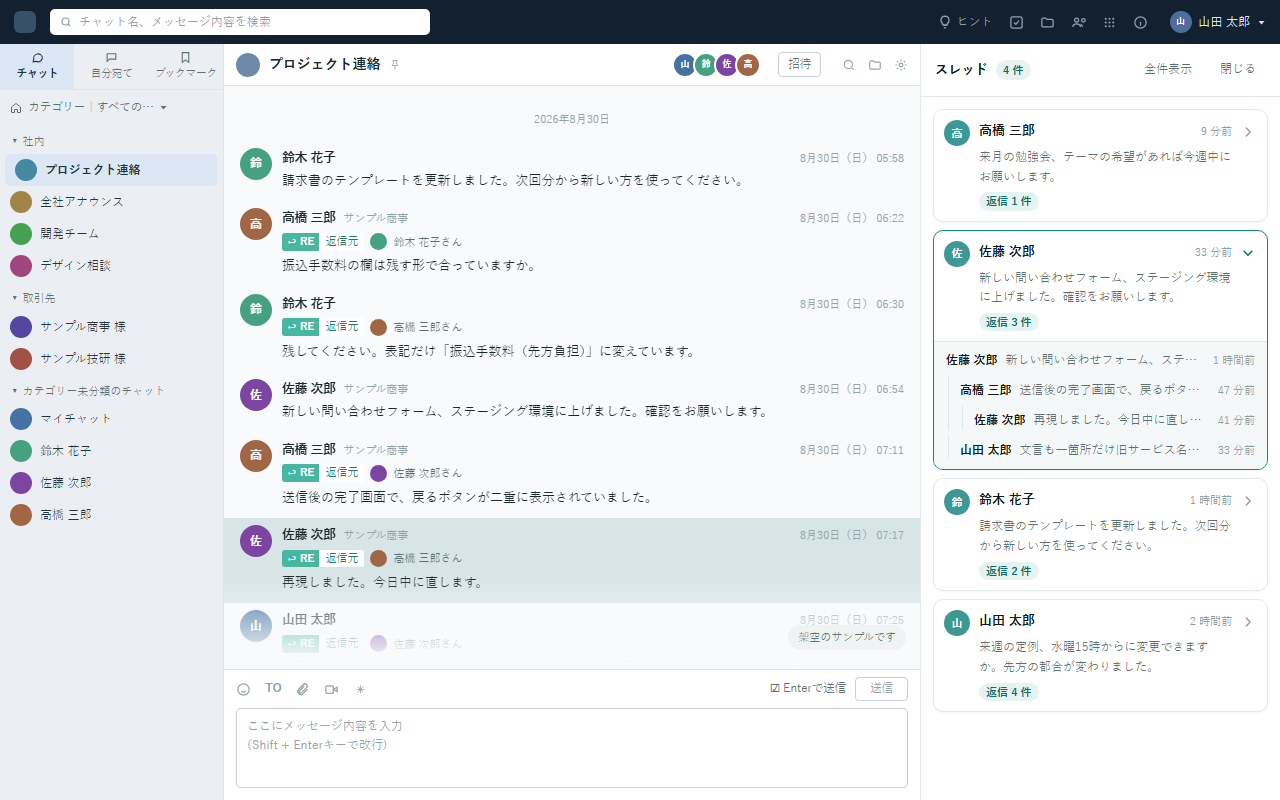
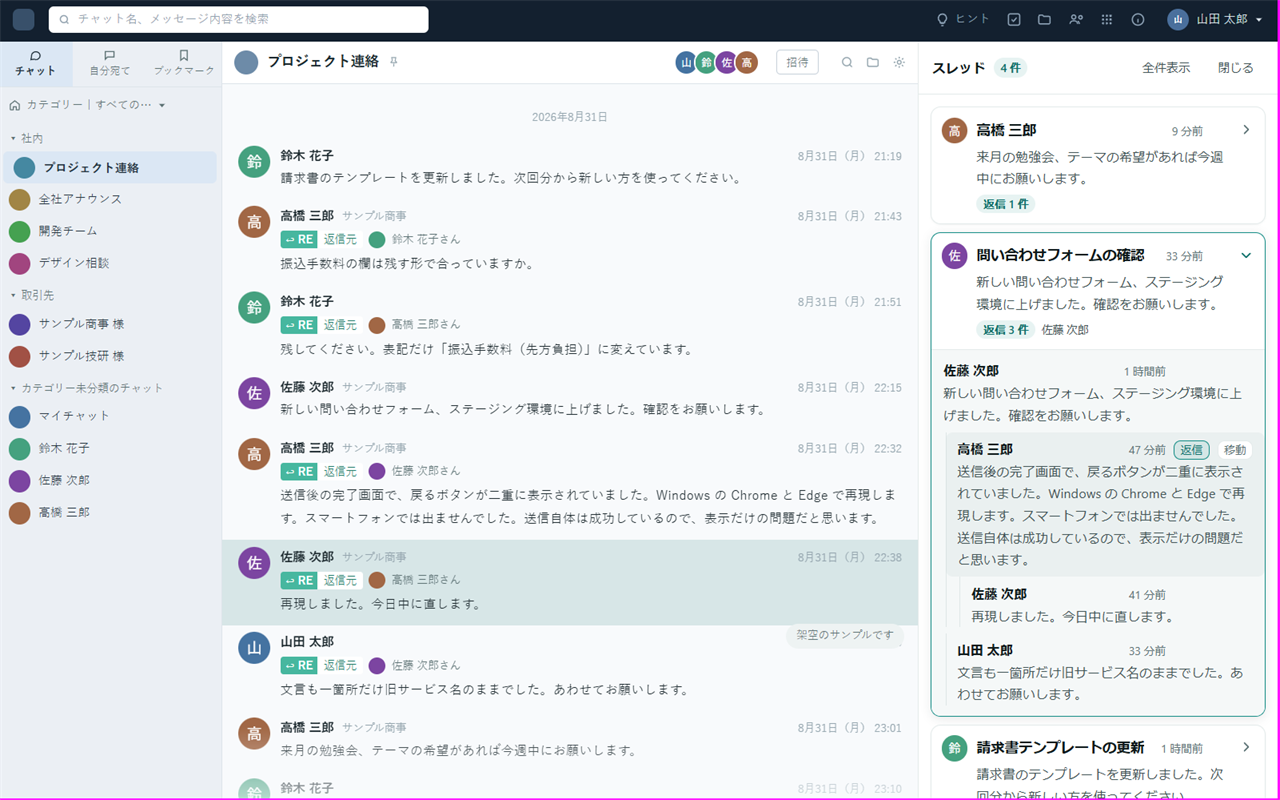
docs: スクリーンショットを 0.2.0 の画面に差し替えた
撮影後の縮小工程が抜けており 1600x1000 前後になっていた。ストアは
1280x800 ちょうどしか受け付けないため縮小した。手順書にもその一段を
明記する (?shot=1 は 1.25 倍で描画するので、切り出した直後は大きい)。

@2x は用意できなかったので、LP の参照を等倍へ切り替えた。参照したまま
だと LP の画像が 6 箇所すべて 404 になる。

Claude-Session: https://claude.ai/code/session_01MtNMBALcovyCk81NGAjm38

diff --git a/docs/lp/index.html b/docs/lp/index.html
@@ -533,9 +533,9 @@ footer { padding: 3rem 0; border-top: 1px solid var(--line); background: var(--b
             <b>ON</b>
           </span>
         </div>
-        <img class="browser__shot" src="../store/assets/screenshot-2-light@2x.png"
+        <img class="browser__shot" src="../store/assets/screenshot-2-light.png"
              alt="Chatwork の画面。左にタイムライン、右に追加されたパネルがあり、4 件のスレッドが並んでいる。1 件は開かれていて、返信の階層が表示されている。"
-             width="2560" height="1600" fetchpriority="high">
+             width="1280" height="800" fetchpriority="high">
       </div>
       <p class="showcase__note">右側のパネルが追加されます（架空のサンプルです。実在の人物とは関係ありません）</p>
     </div>
@@ -607,7 +607,7 @@ footer { padding: 3rem 0; border-top: 1px solid var(--line); background: var(--b
       </div>
       <figure>
         <div class="crop" style="--ar: 348 / 256; --w: 367.8%; --x: -266.7%; --y: -86.7%">
-          <img src="../store/assets/screenshot-2-light@2x.png" alt="開かれたスレッド。1 件の親メッセージの下に、3 件の返信が階層の線とともに並んでいる。" width="2560" height="1600" loading="lazy">
+          <img src="../store/assets/screenshot-2-light.png" alt="開かれたスレッド。1 件の親メッセージの下に、3 件の返信が階層の線とともに並んでいる。" width="1280" height="800" loading="lazy">
         </div>
         <figcaption class="cap">スレッドを開いたところ</figcaption>
       </figure>
@@ -632,7 +632,7 @@ footer { padding: 3rem 0; border-top: 1px solid var(--line); background: var(--b
       </div>
       <figure>
         <div class="crop" style="--ar: 690 / 170; --w: 185.5%; --x: -33.0%; --y: -251.8%">
-          <img src="../store/assets/screenshot-2-light@2x.png" alt="タイムライン側。返信元の名前が付いたメッセージが並び、1 件に背景色が付いている。" width="2560" height="1600" loading="lazy">
+          <img src="../store/assets/screenshot-2-light.png" alt="タイムライン側。返信元の名前が付いたメッセージが並び、1 件に背景色が付いている。" width="1280" height="800" loading="lazy">
         </div>
         <figcaption class="cap">移動した先に色が付く</figcaption>
       </figure>
@@ -658,7 +658,7 @@ footer { padding: 3rem 0; border-top: 1px solid var(--line); background: var(--b
       </div>
       <figure>
         <div class="crop" style="--ar: 360 / 180; --w: 355.6%; --x: -255.6%; --y: -24.4%">
-          <img src="../store/assets/screenshot-2-light@2x.png" alt="パネル上部。スレッド件数のバッジ、全件表示の切り替え、閉じるボタンが並んでいる。" width="2560" height="1600" loading="lazy">
+          <img src="../store/assets/screenshot-2-light.png" alt="パネル上部。スレッド件数のバッジ、全件表示の切り替え、閉じるボタンが並んでいる。" width="1280" height="800" loading="lazy">
         </div>
         <figcaption class="cap">パネル上部の操作</figcaption>
       </figure>
@@ -699,11 +699,11 @@ footer { padding: 3rem 0; border-top: 1px solid var(--line); background: var(--b
     </div>
     <div class="shots">
       <figure class="shot">
-        <img src="../store/assets/screenshot-1-dark@2x.png" alt="ダークテーマでの表示。右側のパネルに 4 件のスレッドが並び、1 件が開かれて返信の階層が表示されている。" width="2560" height="1600" loading="lazy">
+        <img src="../store/assets/screenshot-1-dark.png" alt="ダークテーマでの表示。右側のパネルに 4 件のスレッドが並び、1 件が開かれて返信の階層が表示されている。" width="1280" height="800" loading="lazy">
         <figcaption>ダークテーマの表示（サンプルデータ）</figcaption>
       </figure>
       <figure class="shot">
-        <img src="../store/assets/screenshot-2-light@2x.png" alt="ライトテーマでの表示。同じスレッド一覧が明るい配色で表示されている。" width="2560" height="1600" loading="lazy">
+        <img src="../store/assets/screenshot-2-light.png" alt="ライトテーマでの表示。同じスレッド一覧が明るい配色で表示されている。" width="1280" height="800" loading="lazy">
         <figcaption>ライトテーマの表示（サンプルデータ）</figcaption>
       </figure>
     </div>
